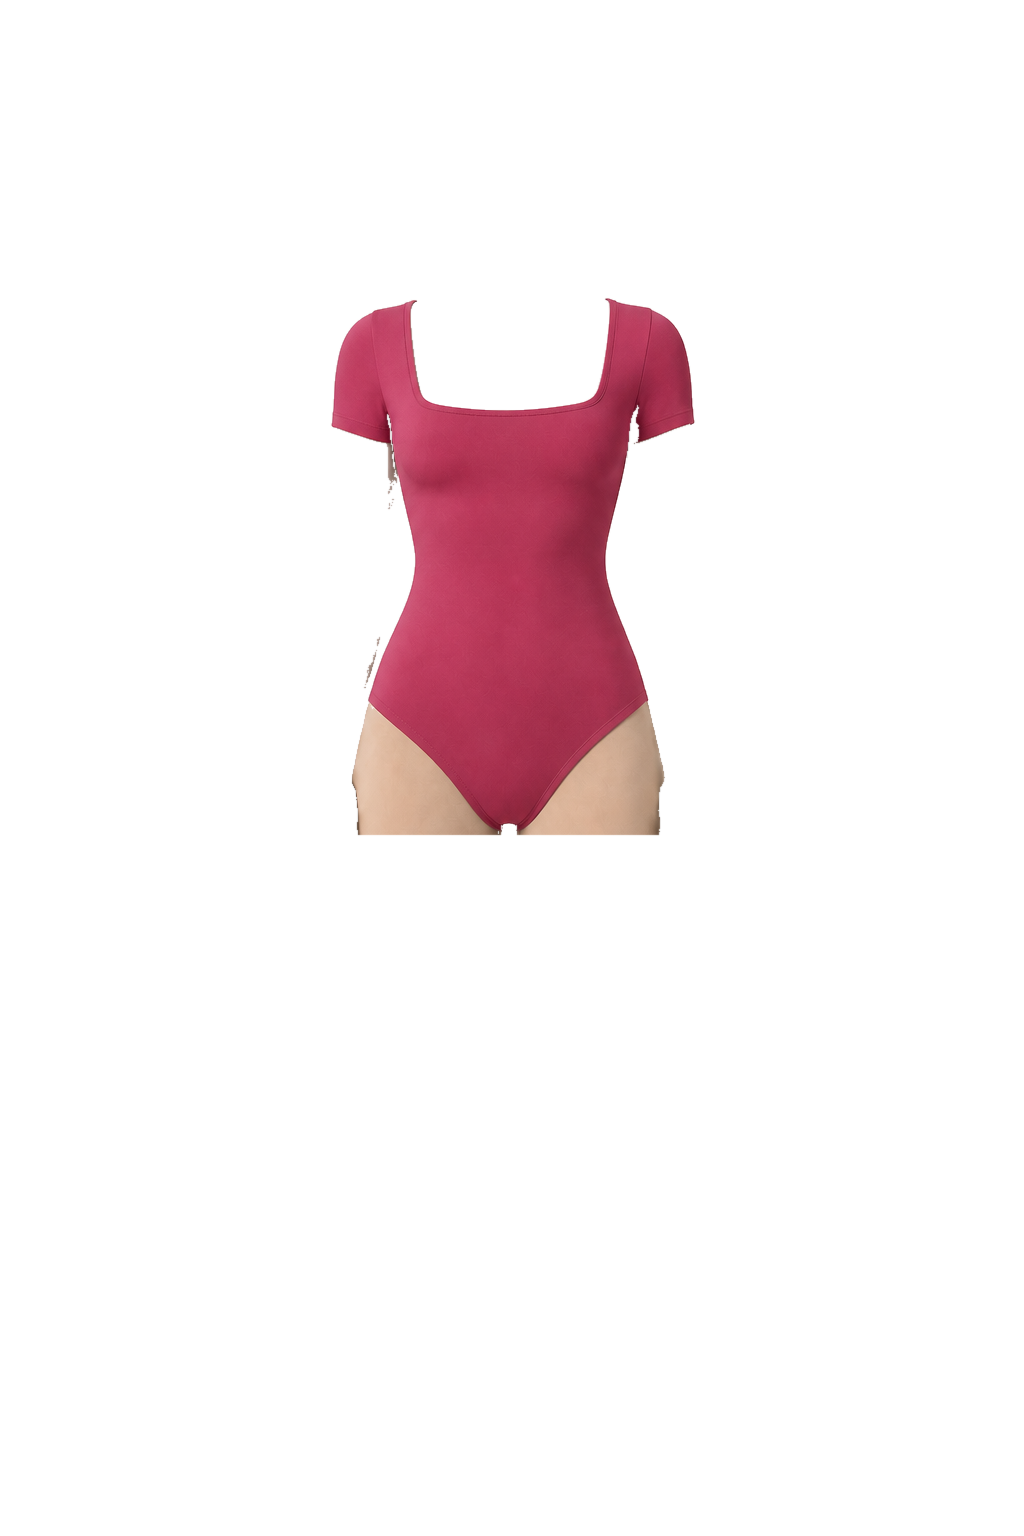
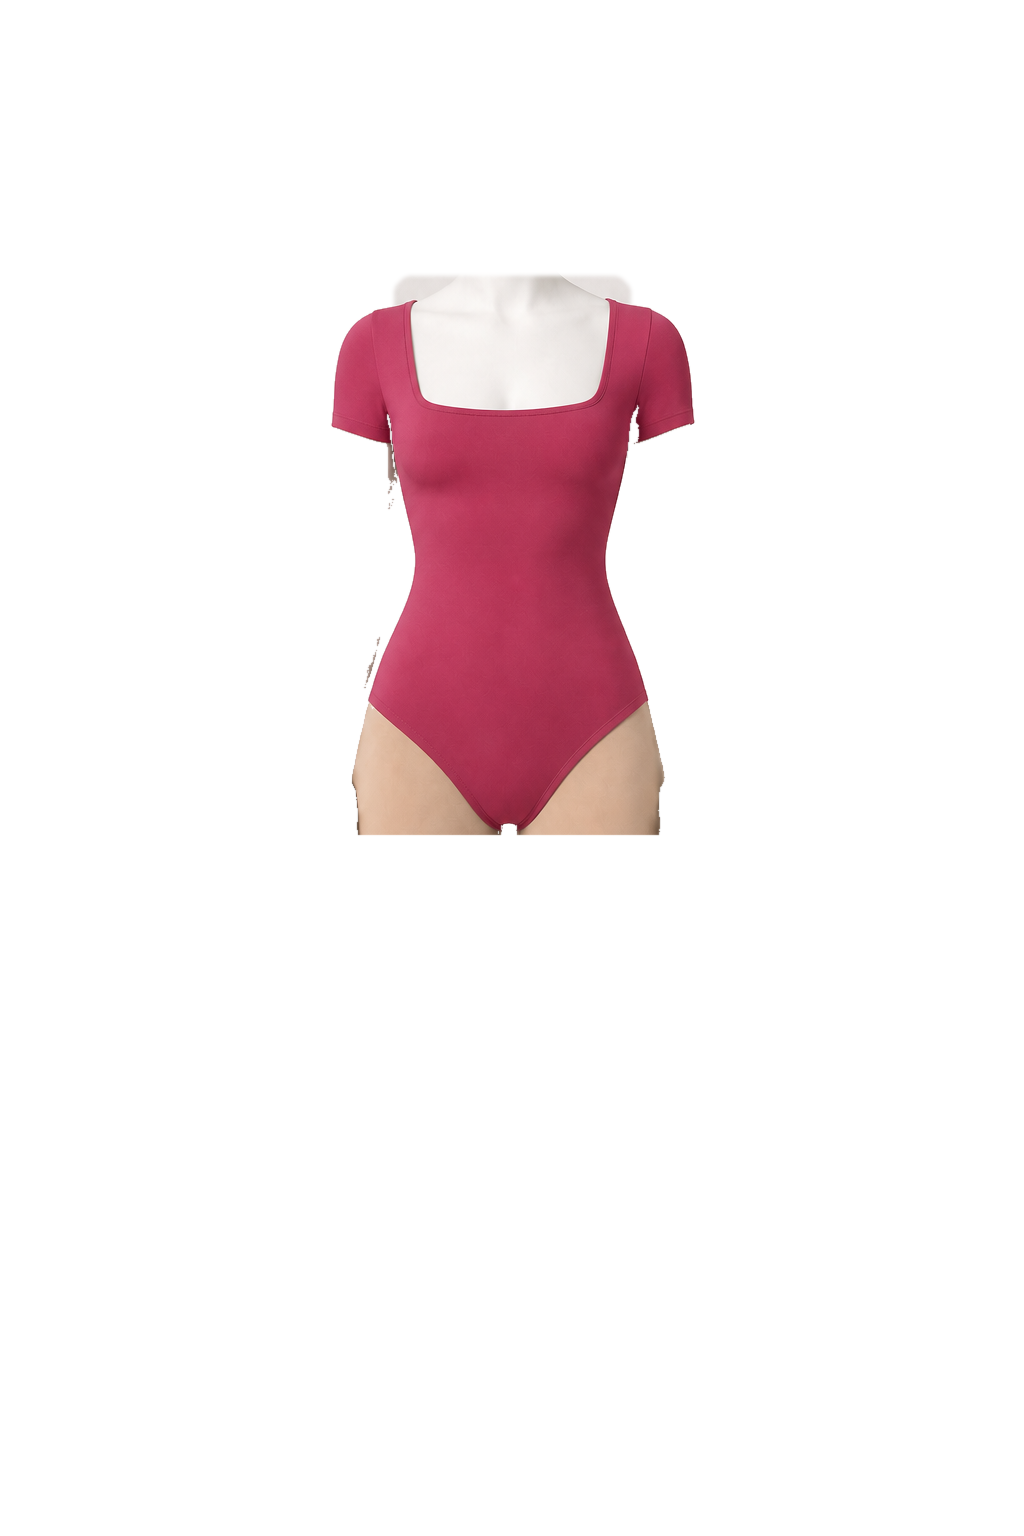
Fix vest and square-neck layering

Changed region(s): [[0.4688, 0.1562, 0.625, 0.2812], [0.375, 0.1562, 0.4375, 0.2188], [0.4688, 0.25, 0.5, 0.2812]]

diff --git a/web/index.html b/web/index.html
@@ -300,6 +300,11 @@ const MANNEQUIN_ITEM_LAYERS = {
   "item_1785243292489_oeif8o": "/mannequin/layers/item_1785243292489_oeif8o.png",
 };
 const MANNEQUIN_LAYER_ORDER = ["top", "bottom", "dress", "layer", "shoes", "accessory"];
+const MANNEQUIN_TOPS_OVER_BOTTOMS = new Set([
+  "item_1784051448857_opo7xg",
+  "item_1784053755444_9donii",
+  "item_1784053777436_rygh05",
+]);
 const MANNEQUIN_CORRECTED_COMBOS = {
   "item_1784049803062_36cyd2|item_1784051309093_eo70g1|item_1784063648163_w89uyx":
     "/mannequin/corrections/black-cowl-light-birch-taupe-pumps.png",
@@ -317,7 +322,9 @@ function tryOnHTML(outfit, byId) {
   const corrected = MANNEQUIN_CORRECTED_COMBOS[mannequinComboKey(outfit)];
   const pairKey = [outfit.top, outfit.bottom].filter(Boolean).sort().join("|");
   const pairCorrection = MANNEQUIN_PAIR_CORRECTIONS[pairKey];
-  const orderedIds = MANNEQUIN_LAYER_ORDER.map(cat => outfit[cat]).filter(Boolean);
+  const orderedIds = MANNEQUIN_TOPS_OVER_BOTTOMS.has(outfit.top)
+    ? [outfit.bottom, outfit.dress, outfit.top, outfit.layer, outfit.shoes, outfit.accessory].filter(Boolean)
+    : MANNEQUIN_LAYER_ORDER.map(cat => outfit[cat]).filter(Boolean);
   const available = orderedIds.filter(id => MANNEQUIN_ITEM_LAYERS[id]);
   const missing = orderedIds.filter(id => !MANNEQUIN_ITEM_LAYERS[id]).map(id => byId[id]?.name).filter(Boolean);
   const images = corrected
